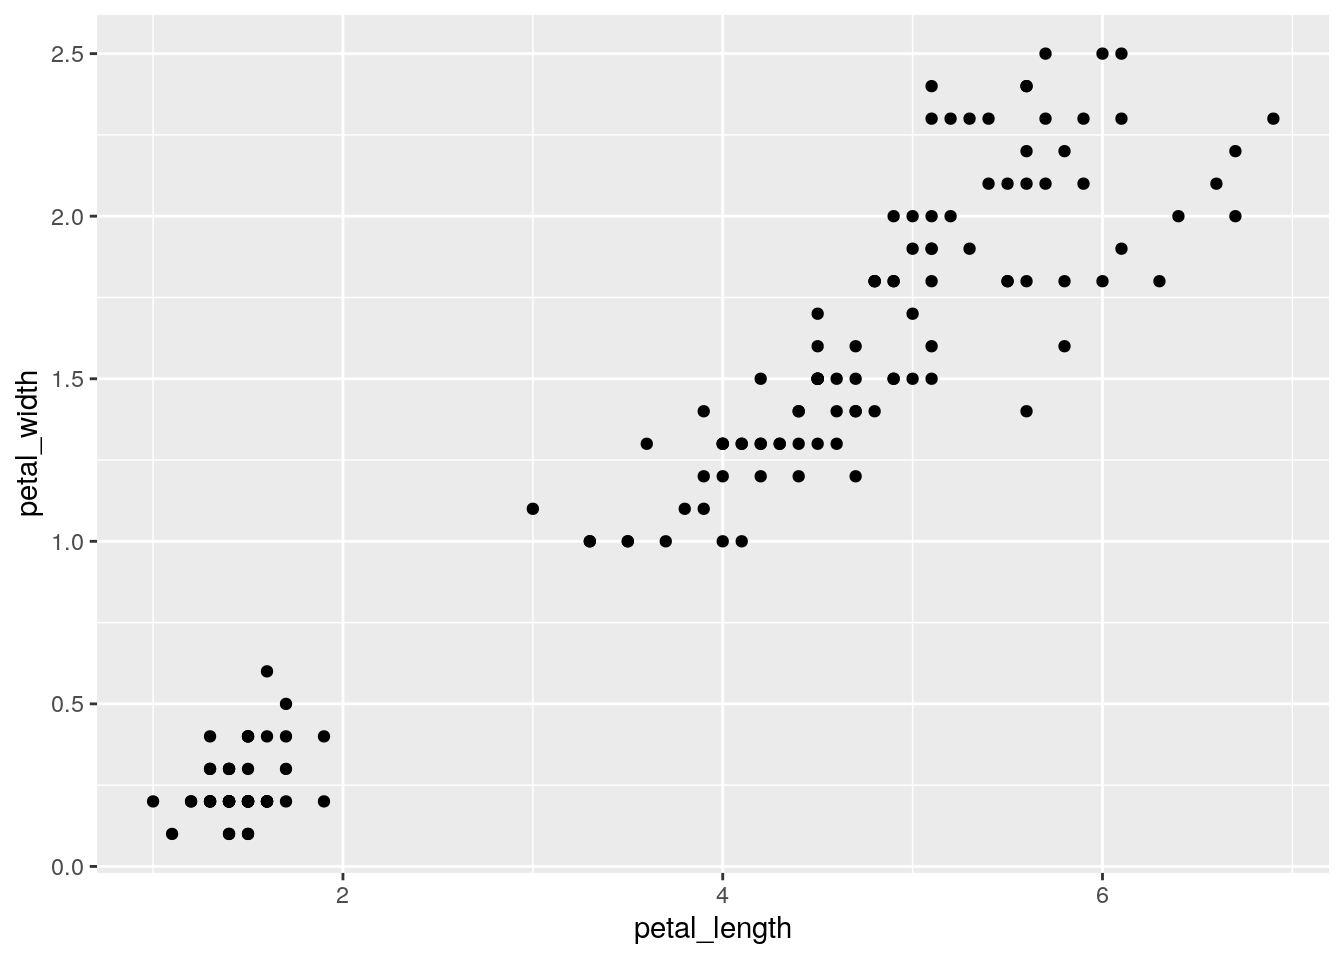
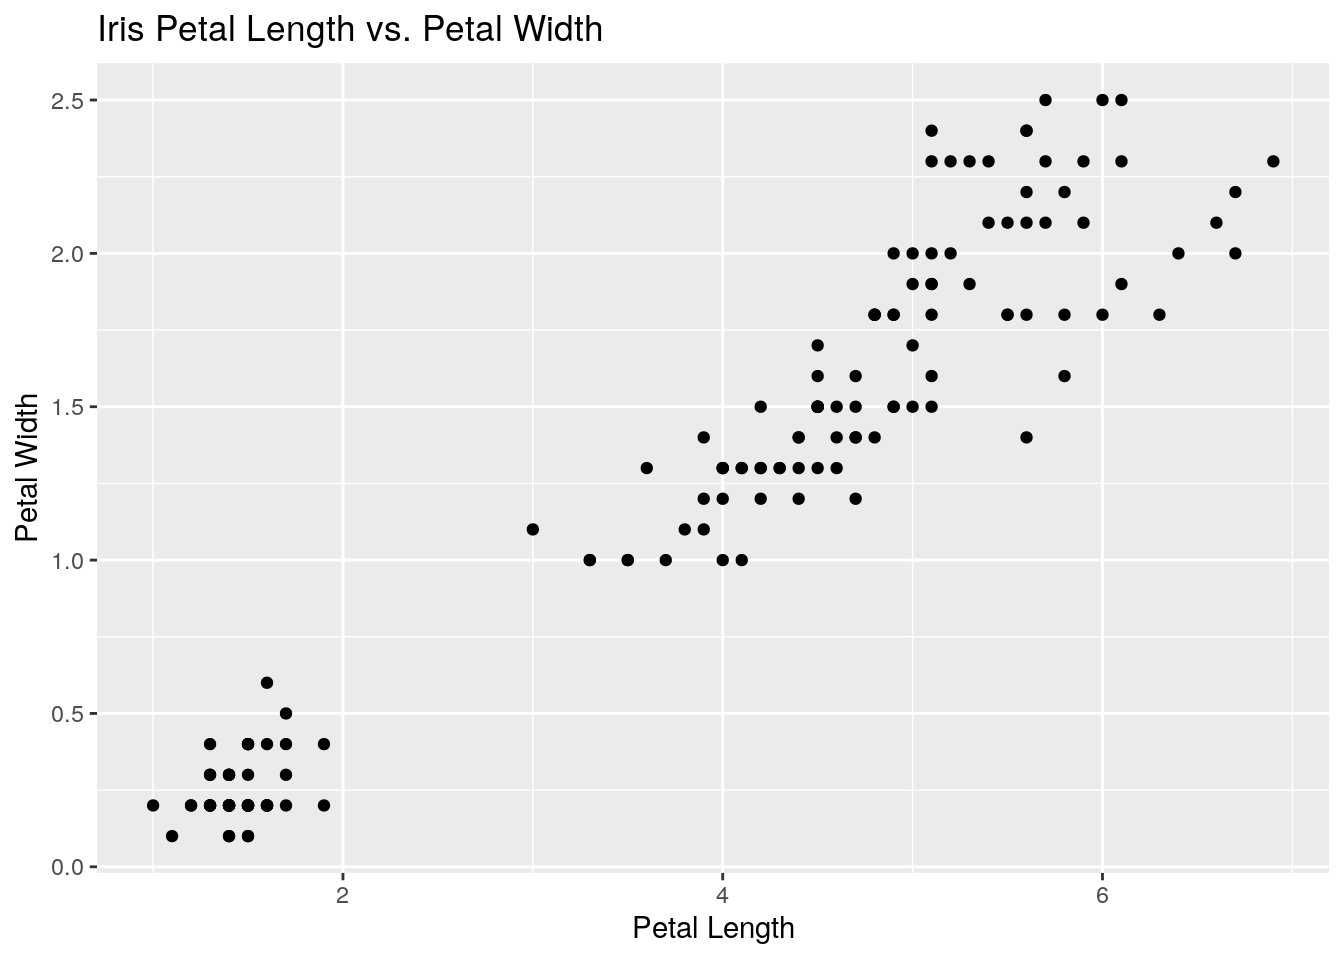
some message

diff --git a/post/2020/12/09/reticulate-in-python/index.html b/post/2020/12/09/reticulate-in-python/index.html
@@ -76,18 +76,24 @@
 <h1>Python and R Working Together</h1>
 <p>Reticulate is a really cool function in R studio that allows us to use two coding languages at the same time! In this blog post, we'll see how R and python can be used simultaneously for different functions.</p>
 <pre class="r"><code>library(reticulate)
-library(ggplot2)</code></pre>
+library(ggplot2)
+library(ggExtra)</code></pre>
 <p>For example, I have the iris dataset imported into python here:</p>
 <pre class="python"><code>import seaborn as sns
 df= sns.load_dataset(&#39;iris&#39;)</code></pre>
-<p>However, if I only like to make graphs using ggplot in R, then I can save the iris dataset (abbreviated to df) into R. To do this, I use the code py$&quot;dataframename&quot; and save that as the nema I want in R. Then, I can use ggplot to plot the variables of petal length and petal width!</p>
+<p>However, if I only like to make graphs using ggplot in R, then I can save the iris dataset (abbreviated to df) into R. To do this, I use the code py$&quot;dataframename&quot; and save that as the name I want in R. Then, I can use ggplot to plot the variables of petal length and petal width!</p>
 <pre class="r"><code>df&lt;-py$df
 
-ggplot(df) + geom_point(aes(petal_length, petal_width))</code></pre>
+plot1&lt;-ggplot(df) + geom_point(aes(petal_length, petal_width))
+plot1 + ggtitle(&quot;Iris Petal Length vs. Petal Width&quot;) + 
+    xlab(&quot;Petal Length&quot;) + 
+    ylab(&quot;Petal Width&quot;)</code></pre>
 <p><img src="../../../../../post/2020-12-09-reticulate-in-python_files/figure-html/unnamed-chunk-3-1.png" width="672" /></p>
+<pre class="r"><code>?iris</code></pre>
+<p>We can even do it the other way, starting with a dataset imported in R. I'll import the ChickWeight dataset from R:</p>
 <pre class="r"><code>ChickWeight &lt;- as.data.frame(ChickWeight)</code></pre>
-<pre class="python"><code>r.ChickWeight.shape
-</code></pre>
+<p>A really simple piece of information we can get in python is the shape of this dataset. By using &quot;shape&quot;, we see that there are 578 rows and 4 variables (columns)!</p>
+<pre class="python"><code>r.ChickWeight.shape</code></pre>
 <pre><code>## (578, 4)</code></pre>
 </div>
 
